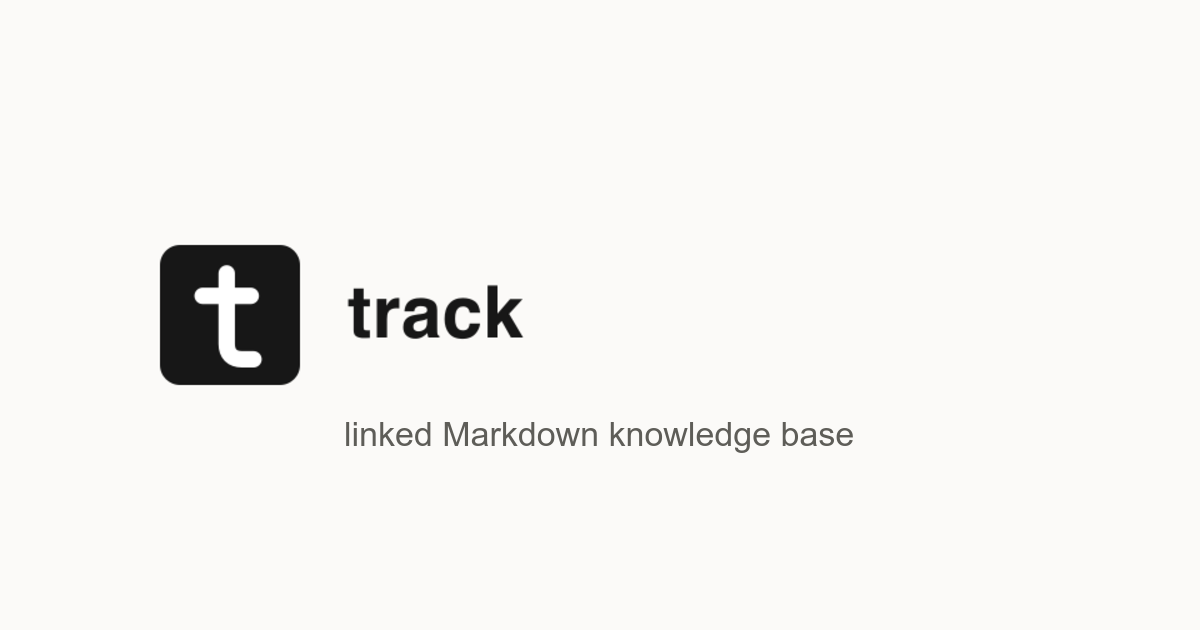
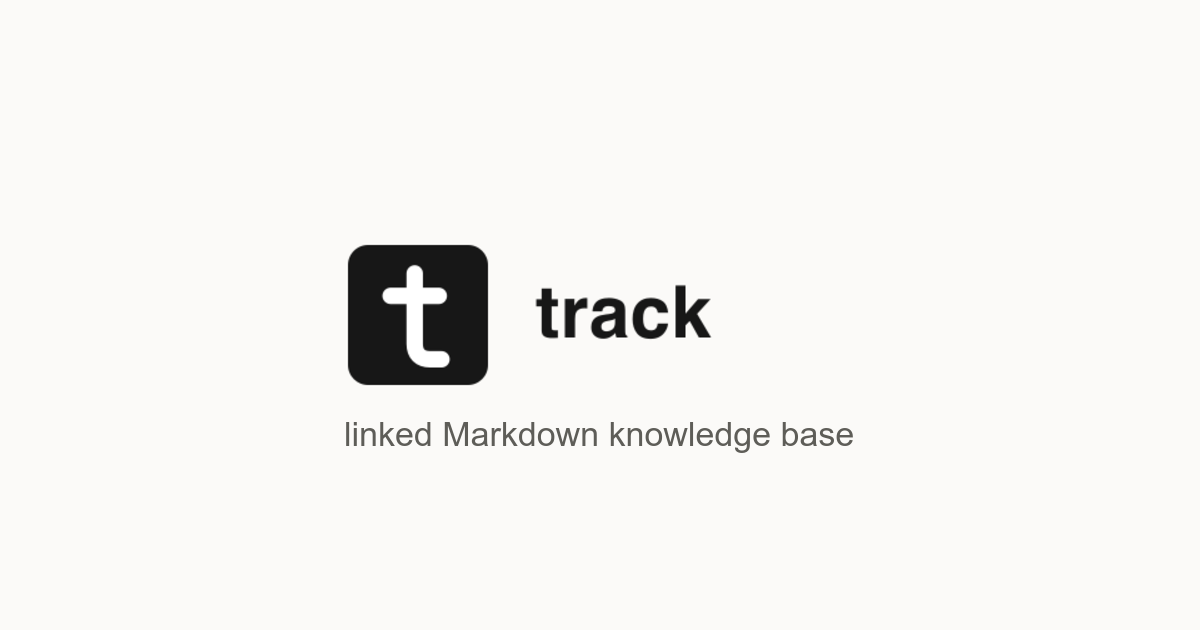
Say which vault a tab came from in the label voice, and square the OG lockup (#155)
* fix(web): let a note's vault name the tab instead of badging it

A filled chip on chrome is a control resting on content (design.md variant
2), and the vault a tab came from controls nothing — it annotates the title,
the way a code block's language or an OGP card's site does. It joins the
shared section label recipe (variant 6) and keeps only its own spacing.

* fix(web): stand the default OG lockup on the description's left edge

The lockup sat at x=158 while the centred description below it began at
x=346, so the two read as separate blocks. Moving the lockup to the
description's left edge makes them one left-aligned stack.

---------

Changed region(s): [[0.1233, 0.3619, 0.6167, 0.6333]]

diff --git a/web/src/styles.css b/web/src/styles.css
@@ -137,7 +137,8 @@
 .results-group,
 .code-block[data-language]::before,
 .note-prop dt,
-.ogp-card-site {
+.ogp-card-site,
+.tab-vault {
   color: var(--faint);
   font-family: var(--font-mono);
   font-size: calc(11px * var(--font-scale, 1));
@@ -1366,16 +1367,12 @@ a.calendar-title:focus-visible {
 }
 
 /* The vault a tab's note comes from, shown only when the workspace serves named vaults: two of them
-   can hold notes with the same title, so the badge is what tells the tabs apart. */
+   can hold notes with the same title, so the name is what tells the tabs apart. It annotates the
+   title rather than controlling anything, so it takes the section label recipe (design.md variant 6,
+   typography shared above) — chrome carries no filled chips. */
 .tab-vault {
   flex: none;
   margin-right: 6px;
-  padding: 1px 5px;
-  border-radius: var(--radius-sm);
-  background: var(--panel-soft);
-  color: var(--muted);
-  font-size: calc(11px * var(--font-scale, 1));
-  letter-spacing: 0.02em;
   white-space: nowrap;
 }
 

diff --git a/web/src/styles.test.ts b/web/src/styles.test.ts
@@ -76,6 +76,16 @@ describe("tab strip", () => {
     expect(revealed).toMatch(/background:\s*var\(--panel-soft\)/);
     expect(css).toMatch(/\.tab:hover \.tab-close-glyph/);
   });
+
+  // The vault a note came from names the tab, it does not control anything: it joins the shared
+  // section label recipe (design.md variant 6) and keeps only its own spacing.
+  it("writes the vault name as a section label, not a filled badge", () => {
+    const rules = [...css.matchAll(/\.tab-vault[^{]*\{([^}]*)\}/g)].map((m) => m[1]);
+
+    expect(rules).toHaveLength(2);
+    expect(rules[0]).toMatch(/text-transform:\s*uppercase/);
+    expect(rules[1]).not.toMatch(/background|border-radius|padding/);
+  });
 });
 
 describe("content width", () => {

diff --git a/docs/spec/design.md b/docs/spec/design.md
@@ -214,7 +214,8 @@ Single-line fields carry editability with a bottom hairline, not a box.
 ### 6. Section label — the caption naming a region
 
 Small caps that title a chrome region or annotate content (CONTENTS,
-BACKLINKS, a code block's language, an OGP card's site name).
+BACKLINKS, a code block's language, an OGP card's site name, the vault a tab's
+note came from).
 
 - `font-family: var(--font-mono)`, `calc(11px * var(--font-scale, 1))`,
   `font-weight: 500`, `letter-spacing: 0.12em`, `text-transform: uppercase`,
